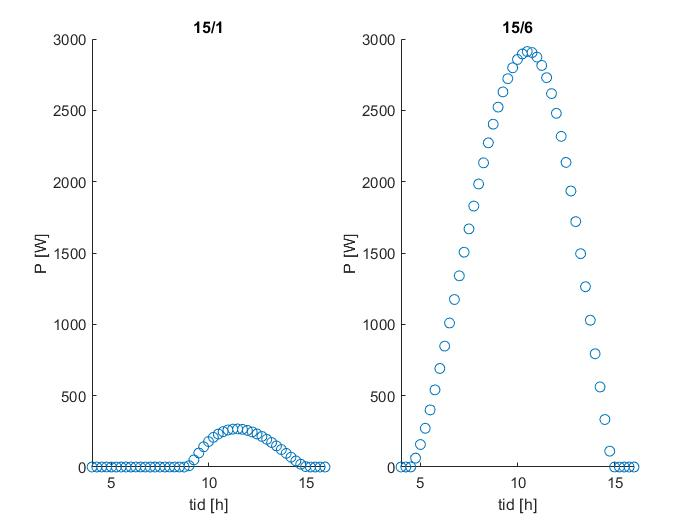
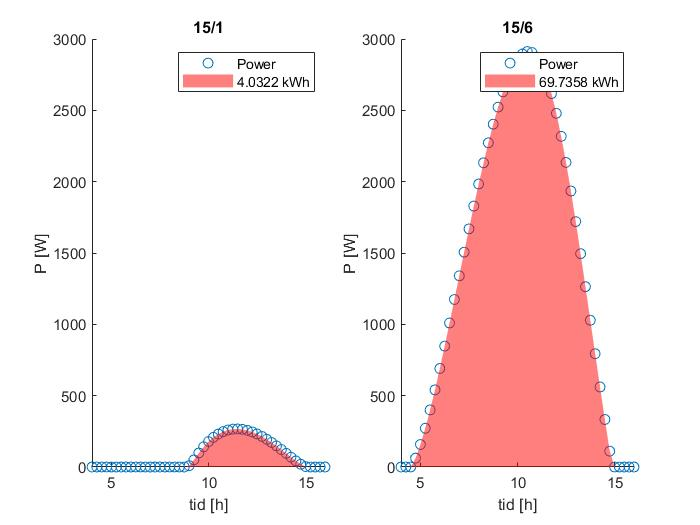
tweaks

Changed region(s): [[0.57, 0.0914, 0.9, 0.9143], [0.27, 0.7924, 0.45, 0.9143], [0.24, 0.0914, 0.45, 0.1829]]

diff --git a/au3student.m b/au3student.m
@@ -24,11 +24,11 @@ subplot(1,2,2)
 plotMonth(6, goteborgLat, elevation, azimut, efficiency, area)
 title("Juni");
 axis([1 30 0 80]);
-yearlyPower = calcYearlyPower(goteborgLat, elevation, azimut, efficiency, area)/1000
-janPower = calcMonthlyPower(1, goteborgLat, elevation, azimut, efficiency, area)/1000
-junPower = calcMonthlyPower(6, goteborgLat, elevation, azimut, efficiency, area)/1000
-optimalElevationAngle = optimizeElevation(goteborgLat, azimut, efficiency, area)
-area = oneGWarea(3, 8 , 11, goteborgLat, elevation, azimut, efficiency)
+% yearlyPower = calcYearlyPower(goteborgLat, elevation, azimut, efficiency, area)/1000
+% janPower = calcMonthlyPower(1, goteborgLat, elevation, azimut, efficiency, area)/1000
+% junPower = calcMonthlyPower(6, goteborgLat, elevation, azimut, efficiency, area)/1000
+% optimalElevationAngle = optimizeElevation(goteborgLat, azimut, efficiency, area)
+% area = oneGWarea(3, 8 , 11, goteborgLat, elevation, azimut, efficiency)
 %%
 
 %optimize functions
@@ -72,9 +72,17 @@ function plotMonth(month, lattitude, panelElevationAngle, panelAzimutAngle, effi
         end
         power(d) = (trapz(dayPower))/1000;
     end
-    length(days)
-    length(power)
     scatter(days, power);
+    hold on
+    s.X = [days(1:end-1);days(1:end-1);days(2:end);days(2:end)];
+    len = length(power)-1;
+    s.Y = [zeros(1, len);power(1:end-1);power(2:end);zeros(1, len)];
+    s.FaceColor = 'red';
+    s.EdgeColor = 'none';
+    s.FaceAlpha = 0.5;
+    patch(s);
+    hold off
+    legend("Power", [num2str(trapz(power)/1000),' kWh']);
     ylabel("P [KWh]");
     xlabel("tid [dagar]");
 end
@@ -100,6 +108,16 @@ function plotYear(lattitude, panelElevationAngle, panelAzimutAngle, efficiency, 
         power(dayOfYear) = (trapz(dayPower))/1000;
     end
     scatter(days, power);
+    hold on
+    s.X = [days(1:end-1);days(1:end-1);days(2:end);days(2:end)];
+    len = length(power)-1;
+    s.Y = [zeros(1, len);power(1:end-1);power(2:end);zeros(1, len)];
+    s.FaceColor = 'red';
+    s.EdgeColor = 'none';
+    s.FaceAlpha = 0.5;
+    patch(s);
+    hold off
+    legend("Power", [num2str(trapz(power)/1000),' kWh']);
     axis([1 365 0 110]);
     title("År");
     ylabel("P [KWh]");
@@ -120,7 +138,17 @@ function plotDay(month, day, lattitude, panelElevationAngle, panelAzimutAngle, e
         panelPower = calcPanelPower(surfacePower, elevationAngle, azimutAngle, panelElevationAngle, panelAzimutAngle);
         power(i) = calcTotalPower(dayOfYear,efficiency, panelPower, area);
     end
-    scatter(t, abs(power));
+    scatter(t, power);
+    hold on
+    s.X = [t(1:end-1);t(1:end-1);t(2:end);t(2:end)];
+    len = length(power)-1;
+    s.Y = [zeros(1, len);power(1:end-1);power(2:end);zeros(1, len)];
+    s.FaceColor = 'red';
+    s.EdgeColor = 'none';
+    s.FaceAlpha = 0.5;
+    patch(s);
+    hold off
+    legend("Power", [num2str(trapz(power)/1000),' kWh']);
     axis([5 19 0 4000]);
     title([num2str(day),'/',num2str(month)])
     ylabel("P [W]");
@@ -263,13 +291,4 @@ function dayOfYear = calcDayOfYear(month, day)
       dayOfYear = dayOfYear + daysInMonths(i);
    end
    dayOfYear = dayOfYear + day;
-end
-
-%Common functions
-function y = deg2rad(x)
-    y = x.*pi./180;
-end
-
-function y = rad2deg(x)
-    y = (x.*180)./pi;
 end
